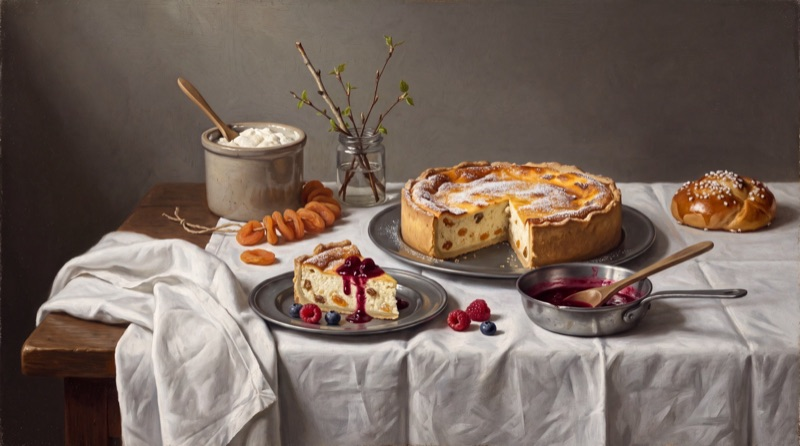
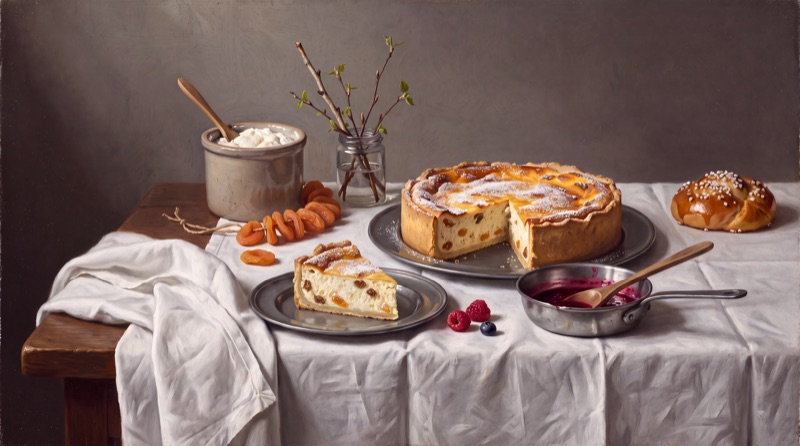
April: revised painting (no berry sauce poured over the cake slice)

diff --git a/public/aprilis/index.html b/public/aprilis/index.html
@@ -13,7 +13,7 @@
 <meta property="og:description" content="Šo recepti iesūtīja Kristīne Dannenberga no Stokholmas. Lūk, receptes stāsts: ”Zviedrijas maizītes man vienmēr likušās pārāk saldas un treknas, tādēļ biju…">
 <meta property="og:type" content="article">
 <meta property="og:url" content="https://zlk2027.latviesi.se/aprilis/">
-<meta property="og:image" content="https://zlk2027.latviesi.se/img/aprilis.jpg?v=a1fe8e81">
+<meta property="og:image" content="https://zlk2027.latviesi.se/img/aprilis.jpg?v=767c75c9">
 <meta name="theme-color" content="#fdfbf2">
 <link rel="icon" href="/favicon.svg" type="image/svg+xml">
 <link rel="preconnect" href="https://fonts.googleapis.com">
@@ -37,7 +37,7 @@
     <p class="year">2027</p>
     <p class="month">Aprīlis</p>
   </header>
-  <figure class="visual"><img src="/img/aprilis.jpg?v=a1fe8e81" srcset="/img/aprilis-800.jpg?v=3b7b9915 800w, /img/aprilis.jpg?v=a1fe8e81 1600w" sizes="(min-width: 1200px) 1120px, 100vw" width="1600" height="893" alt="Kesellas biezpienkūka ar ogu mērci" fetchpriority="high"></figure>
+  <figure class="visual"><img src="/img/aprilis.jpg?v=767c75c9" srcset="/img/aprilis-800.jpg?v=ea4cbc91 800w, /img/aprilis.jpg?v=767c75c9 1600w" sizes="(min-width: 1200px) 1120px, 100vw" width="1600" height="893" alt="Kesellas biezpienkūka ar ogu mērci" fetchpriority="high"></figure>
   <section class="band">
     <div class="col col-1">
       <h1 class="recipe-title">Kesellas biezpienkūka ar ogu mērci</h1>

diff --git a/public/sv/aprilis/index.html b/public/sv/aprilis/index.html
@@ -13,7 +13,7 @@
 <meta property="og:description" content="Receptet skickades in av Kristīne Dannenberga från Stockholm. Så här berättar hon: ”Svenska bullar har alltid känts för söta och feta för mig, så jag blev…">
 <meta property="og:type" content="article">
 <meta property="og:url" content="https://zlk2027.latviesi.se/sv/aprilis/">
-<meta property="og:image" content="https://zlk2027.latviesi.se/img/aprilis.jpg?v=a1fe8e81">
+<meta property="og:image" content="https://zlk2027.latviesi.se/img/aprilis.jpg?v=767c75c9">
 <meta name="theme-color" content="#fdfbf2">
 <link rel="icon" href="/favicon.svg" type="image/svg+xml">
 <link rel="preconnect" href="https://fonts.googleapis.com">
@@ -37,7 +37,7 @@
     <p class="year">2027</p>
     <p class="month">April</p>
   </header>
-  <figure class="visual"><img src="/img/aprilis.jpg?v=a1fe8e81" srcset="/img/aprilis-800.jpg?v=3b7b9915 800w, /img/aprilis.jpg?v=a1fe8e81 1600w" sizes="(min-width: 1200px) 1120px, 100vw" width="1600" height="893" alt="Kvargkaka på Kesella med bärsås" fetchpriority="high"></figure>
+  <figure class="visual"><img src="/img/aprilis.jpg?v=767c75c9" srcset="/img/aprilis-800.jpg?v=ea4cbc91 800w, /img/aprilis.jpg?v=767c75c9 1600w" sizes="(min-width: 1200px) 1120px, 100vw" width="1600" height="893" alt="Kvargkaka på Kesella med bärsås" fetchpriority="high"></figure>
   <section class="band">
     <div class="col col-1">
       <h1 class="recipe-title">Kvargkaka på Kesella med bärsås</h1>

diff --git a/public/en/aprilis/index.html b/public/en/aprilis/index.html
@@ -13,7 +13,7 @@
 <meta property="og:description" content="This recipe was sent in by Kristīne Dannenberga from Stockholm. Here is its story: “Swedish buns have always seemed too sweet and too rich to me, so I was…">
 <meta property="og:type" content="article">
 <meta property="og:url" content="https://zlk2027.latviesi.se/en/aprilis/">
-<meta property="og:image" content="https://zlk2027.latviesi.se/img/aprilis.jpg?v=a1fe8e81">
+<meta property="og:image" content="https://zlk2027.latviesi.se/img/aprilis.jpg?v=767c75c9">
 <meta name="theme-color" content="#fdfbf2">
 <link rel="icon" href="/favicon.svg" type="image/svg+xml">
 <link rel="preconnect" href="https://fonts.googleapis.com">
@@ -37,7 +37,7 @@
     <p class="year">2027</p>
     <p class="month">April</p>
   </header>
-  <figure class="visual"><img src="/img/aprilis.jpg?v=a1fe8e81" srcset="/img/aprilis-800.jpg?v=3b7b9915 800w, /img/aprilis.jpg?v=a1fe8e81 1600w" sizes="(min-width: 1200px) 1120px, 100vw" width="1600" height="893" alt="Kesella quark cake with berry sauce" fetchpriority="high"></figure>
+  <figure class="visual"><img src="/img/aprilis.jpg?v=767c75c9" srcset="/img/aprilis-800.jpg?v=ea4cbc91 800w, /img/aprilis.jpg?v=767c75c9 1600w" sizes="(min-width: 1200px) 1120px, 100vw" width="1600" height="893" alt="Kesella quark cake with berry sauce" fetchpriority="high"></figure>
   <section class="band">
     <div class="col col-1">
       <h1 class="recipe-title">Kesella quark cake with berry sauce</h1>

diff --git a/public/index.html b/public/index.html
@@ -58,7 +58,7 @@
   <p class="credit">Māra Krēsliņa, Stokholma</p>
 </a>
 <a class="card" href="/aprilis/">
-  <figure class="visual"><img src="/img/aprilis.jpg?v=a1fe8e81" srcset="/img/aprilis-800.jpg?v=3b7b9915 800w, /img/aprilis.jpg?v=a1fe8e81 1600w" sizes="(min-width: 1000px) 360px, (min-width: 560px) 50vw, 100vw" width="1600" height="893" alt="Kesellas biezpienkūka ar ogu mērci" loading="lazy"></figure>
+  <figure class="visual"><img src="/img/aprilis.jpg?v=767c75c9" srcset="/img/aprilis-800.jpg?v=ea4cbc91 800w, /img/aprilis.jpg?v=767c75c9 1600w" sizes="(min-width: 1000px) 360px, (min-width: 560px) 50vw, 100vw" width="1600" height="893" alt="Kesellas biezpienkūka ar ogu mērci" loading="lazy"></figure>
   <p class="month-line">Aprīlis</p>
   <h2 class="recipe-title">Kesellas biezpienkūka ar ogu mērci</h2>
   <p class="credit">Kristīne Dannenberga, Stokholma</p>

diff --git a/public/en/index.html b/public/en/index.html
@@ -58,7 +58,7 @@
   <p class="credit">Māra Krēsliņa, Stockholm</p>
 </a>
 <a class="card" href="/en/aprilis/">
-  <figure class="visual"><img src="/img/aprilis.jpg?v=a1fe8e81" srcset="/img/aprilis-800.jpg?v=3b7b9915 800w, /img/aprilis.jpg?v=a1fe8e81 1600w" sizes="(min-width: 1000px) 360px, (min-width: 560px) 50vw, 100vw" width="1600" height="893" alt="Kesella quark cake with berry sauce" loading="lazy"></figure>
+  <figure class="visual"><img src="/img/aprilis.jpg?v=767c75c9" srcset="/img/aprilis-800.jpg?v=ea4cbc91 800w, /img/aprilis.jpg?v=767c75c9 1600w" sizes="(min-width: 1000px) 360px, (min-width: 560px) 50vw, 100vw" width="1600" height="893" alt="Kesella quark cake with berry sauce" loading="lazy"></figure>
   <p class="month-line">April</p>
   <h2 class="recipe-title">Kesella quark cake with berry sauce</h2>
   <p class="credit">Kristīne Dannenberga, Stockholm</p>

diff --git a/public/sv/index.html b/public/sv/index.html
@@ -58,7 +58,7 @@
   <p class="credit">Māra Krēsliņa, Stockholm</p>
 </a>
 <a class="card" href="/sv/aprilis/">
-  <figure class="visual"><img src="/img/aprilis.jpg?v=a1fe8e81" srcset="/img/aprilis-800.jpg?v=3b7b9915 800w, /img/aprilis.jpg?v=a1fe8e81 1600w" sizes="(min-width: 1000px) 360px, (min-width: 560px) 50vw, 100vw" width="1600" height="893" alt="Kvargkaka på Kesella med bärsås" loading="lazy"></figure>
+  <figure class="visual"><img src="/img/aprilis.jpg?v=767c75c9" srcset="/img/aprilis-800.jpg?v=ea4cbc91 800w, /img/aprilis.jpg?v=767c75c9 1600w" sizes="(min-width: 1000px) 360px, (min-width: 560px) 50vw, 100vw" width="1600" height="893" alt="Kvargkaka på Kesella med bärsås" loading="lazy"></figure>
   <p class="month-line">April</p>
   <h2 class="recipe-title">Kvargkaka på Kesella med bärsås</h2>
   <p class="credit">Kristīne Dannenberga, Stockholm</p>
